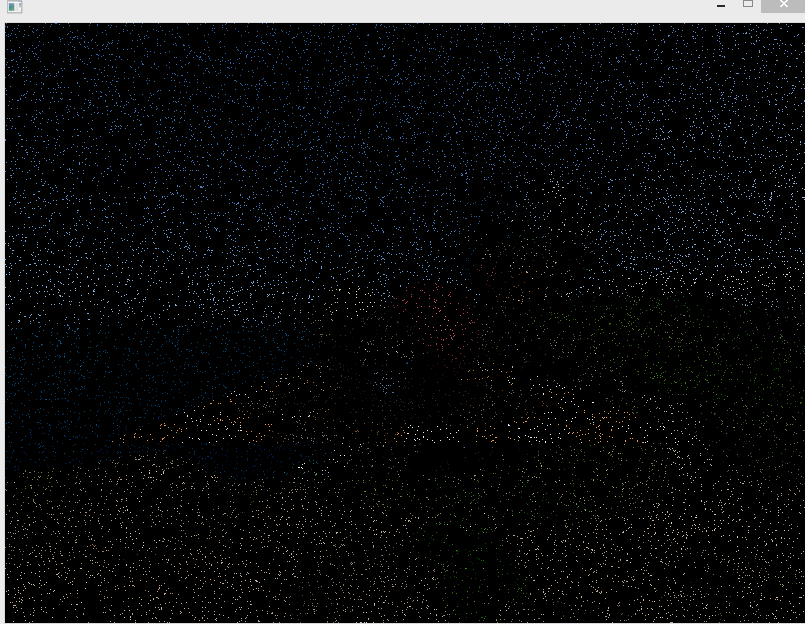
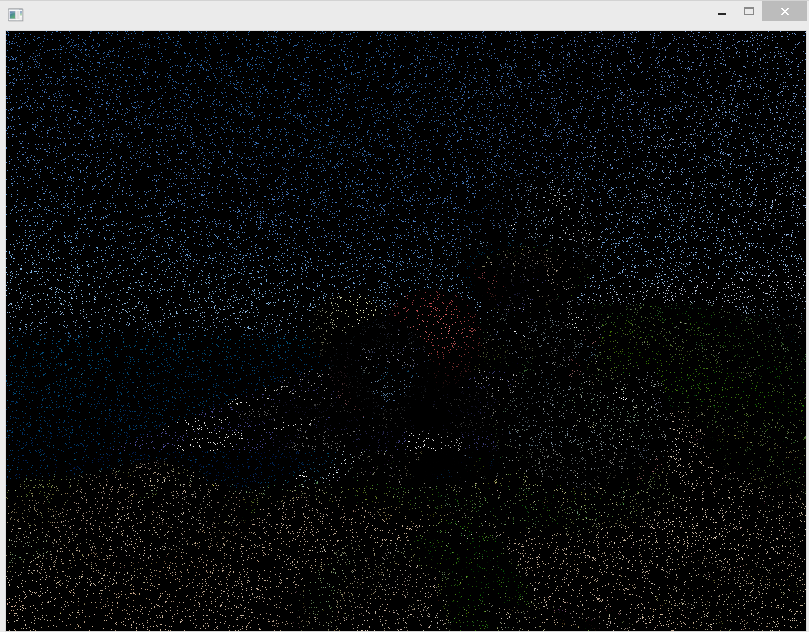
duck refactored, significaly speedup

diff --git a/src/model.cpp b/src/model.cpp
@@ -1,4 +1,4 @@
-#define _CRT_SECURE_NO_WARNINGS
+#define _CRT_SECURE_NO_WARNINGS
 
 #include <iostream>
 #include <cassert>
@@ -52,14 +52,7 @@ Model::Model(const char *filename) : verts(), faces()
 				std::cerr << "Cannot read file: " << filename << std::endl;
 				throw std::string("Cannot read file: ") + filename;
 			}
-            /**//*
-			while (iss >> idx) 
-			{
-                idx--; // in wavefront obj all indices start at 1, not zero
-                f[cnt++] = idx;
-            }
-            if (3==cnt) faces.push_back(f);/**/
-			/**/
+
 			f[0]--;// in wavefront obj all indices start at 1, not zero
 			f[1]--;
 			f[2]--;
@@ -68,31 +61,91 @@ Model::Model(const char *filename) : verts(), faces()
     }
     std::cerr << "# v# " << verts.size() << " f# "  << faces.size() << std::endl;
 
-    Vec3f min, max;
-    get_bbox(min, max);
+	calc_bbox();
 }
 
-// Moller and Trumbore
-bool Model::ray_triangle_intersect(const int &fi, const Vec3f &orig, const Vec3f &dir, float &tnear) const
+void Model::calc_bbox()
 {
-    Vec3f edge1 = point(vert(fi,1)) - point(vert(fi,0));
-    Vec3f edge2 = point(vert(fi,2)) - point(vert(fi,0));
-    Vec3f pvec = cross(dir, edge2);
-    float det = edge1*pvec;
-    if (det<1e-5) return false;
-
-    Vec3f tvec = orig - point(vert(fi,0));
-    float u = tvec*pvec;
-    if (u < 0 || u > det) return false;
-
-    Vec3f qvec = cross(tvec, edge1);
-    float v = dir*qvec;
-    if (v < 0 || u + v > det) return false;
-
-    tnear = edge2*qvec * (1./det);
-    return tnear>1e-5;
+	bb_min = bb_max = verts[0];
+	for (size_t i = 1; i < verts.size(); ++i)
+	{
+		for (int j = 0; j < 3; j++)
+		{
+			bb_min[j] = std::min(bb_min[j], verts[i][j]);
+			bb_max[j] = std::max(bb_max[j], verts[i][j]);
+		}
+	}
+	std::cerr << "bbox: [" << bb_min << " : " << bb_max << "]" << std::endl;
 }
 
+bool Model::ray_bbox_intersect(const Vec3f& orig, const Vec3f& dir) const
+{
+	Vec3f p1, p2, p3, p4;//front
+	Vec3f p5, p6, p7, p8;//rear
+	Vec3f p9, p10, p11, p12;//left
+	Vec3f p13, p14, p15, p16;//right
+	float dist;
+	int ret = 0;
+	
+	p1 = Vec3f(bb_min.x, bb_min.y, bb_min.z);
+	p2 = Vec3f(bb_min.x, bb_max.y, bb_min.z);
+	p3 = Vec3f(bb_max.x, bb_max.y, bb_min.z);
+	p4 = Vec3f(bb_max.x, bb_min.y, bb_min.z);
+	ret += RayIntersectsTriangle(orig, dir, dist, p1, p2, p3);
+	ret += RayIntersectsTriangle(orig, dir, dist, p1, p4, p3);
+	
+	p5 = Vec3f(bb_min.x, bb_min.y, bb_max.z);
+	p6 = Vec3f(bb_min.x, bb_max.y, bb_max.z);
+	p7 = Vec3f(bb_max.x, bb_max.y, bb_max.z);
+	p8 = Vec3f(bb_max.x, bb_min.y, bb_max.z);
+	ret += RayIntersectsTriangle(orig, dir, dist, p5, p7, p6);
+	ret += RayIntersectsTriangle(orig, dir, dist, p5, p8, p7);
+	
+	p9 = Vec3f(bb_min.x, bb_min.y, bb_min.z);
+	p10 = Vec3f(bb_min.x, bb_max.y, bb_min.z);
+	p11 = Vec3f(bb_min.x, bb_max.y, bb_max.z);
+	p12 = Vec3f(bb_min.x, bb_min.y, bb_max.z);
+	ret += RayIntersectsTriangle(orig, dir, dist, p9, p10, p11);
+	ret += RayIntersectsTriangle(orig, dir, dist, p9, p11, p12);
+
+	p13 = Vec3f(bb_max.x, bb_min.y, bb_min.z);
+	p14 = Vec3f(bb_max.x, bb_max.y, bb_min.z);
+	p15 = Vec3f(bb_max.x, bb_max.y, bb_max.z);
+	p16 = Vec3f(bb_max.x, bb_min.y, bb_max.z);
+	ret += RayIntersectsTriangle(orig, dir, dist, p13, p14, p15);
+	ret += RayIntersectsTriangle(orig, dir, dist, p13, p15, p16);
+
+	return ret;
+}
+
+
+
+
+bool Model::ray_triangle_intersect(const int fi, const Vec3f& orig, const Vec3f& dir, float& tnear) const
+{
+
+	return RayIntersectsTriangle(orig, dir, tnear, verts[faces[fi][0]], verts[faces[fi][1]], verts[faces[fi][2]] );
+}
+
+bool Model::ray_intersect(const Vec3f& orig, const Vec3f& dir, float &dist, Vec3f& N, Material& material) const
+{
+	bool intersect = false;
+	for (int i = 0; i < faces.size(); i++)
+	{
+		Vec3f v0 = verts[faces[i][0]];
+		Vec3f v1 = verts[faces[i][1]];
+		Vec3f v2 = verts[faces[i][2]];
+		float cur_dist;
+		if (RayIntersectsTriangle(orig, dir, cur_dist, v0, v1, v2) && cur_dist < dist)
+		{
+			dist = cur_dist;
+			intersect = true;
+			N = cross(v1 - v0, v2 - v0).normalize();
+			material = Material(Vec4f(0.3, 1.5, 0.2, 0.5), Vec3f(.20, .21, .2), 125., 1.5);
+		}
+	}
+	return intersect;
+}
 
 int Model::nverts() const
 {
@@ -106,16 +159,8 @@ int Model::nfaces() const
 
 void Model::get_bbox(Vec3f &min, Vec3f &max)
 {
-    min = max = verts[0];
-    for (int i=1; i<(int)verts.size(); ++i) 
-	{
-        for (int j=0; j<3; j++) 
-		{
-            min[j] = std::min(min[j], verts[i][j]);
-            max[j] = std::max(max[j], verts[i][j]);
-        }
-    }
-    std::cerr << "bbox: [" << min << " : " << max << "]" << std::endl;
+	min = bb_min;
+	max = bb_max;
 }
 
 const Vec3f &Model::point(int i) const 
@@ -154,3 +199,36 @@ std::ostream& operator<<(std::ostream& out, Model &m)
     return out;
 }
 
+
+/*
+	Möller–Trumbore intersection algorithm
+*/
+bool RayIntersectsTriangle(const Vec3f& orig, const Vec3f& dir, float& dist, const Vec3f& v0, const Vec3f& v1, const Vec3f& v2)
+{
+	Vec3f pvec, tvec, q;
+	Vec3f edge1 = v1 - v0;
+	Vec3f edge2 = v2 - v0;
+	const float eps = 1e-7;
+	float det, u, v;
+
+	pvec = cross(dir, edge2);//vector normal to plane 
+	det = edge1 * pvec;
+	if (det > -eps && det < eps)// This ray is parallel to this triangle.
+		return false;
+	det = 1. / det;
+
+	tvec = orig - v0;
+	u = det * (tvec * pvec);
+	if (u < 0.0 || u > 1.0)
+		return false;
+
+	q = cross(tvec, edge1);
+	v = det * (dir * q);
+	if (v < 0.0 || u + v > 1.0)
+		return false;
+
+	// At this stage we can compute t to find out where the intersection point is on the line.
+	dist = det * (edge2 * q);
+	//IntersectionPoint = rayOrigin + dir * dist;
+	return dist > eps;// This means that there is a line intersection but not a ray intersection.
+}

diff --git a/src/render.cpp b/src/render.cpp
@@ -38,7 +38,7 @@ Vec3f refract(const Vec3f& I, const Vec3f& N, const float eta_t, const float eta
 bool scene_intersect(const Vec3f& orig, const Vec3f& dir, const Scene_t &scene, Vec3f& hit, Vec3f& N, Material& material)
 {
 	float spheres_dist = std::numeric_limits<float>::max();
-	float duck_dist = std::numeric_limits<float>::max();
+	float model_dist = std::numeric_limits<float>::max();
 	for (int j = 0; j < scene.objects.size(); j++)
 	{
 		const SceneObject_t* sc_obj = scene.objects[j];
@@ -55,22 +55,9 @@ bool scene_intersect(const Vec3f& orig, const Vec3f& dir, const Scene_t &scene, 
 				material = sphere->material;
 			}
 		}
-		else if (model)
+		else if (model && model->ray_bbox_intersect(orig, dir) )
 		{
-			for (int t = 0; t < model->nfaces(); t++)
-			{
-				float dist;
-				if (model->ray_triangle_intersect(t, orig, dir, dist) && dist < duck_dist && dist < spheres_dist)
-				{
-					duck_dist = dist;
-					hit = orig + dir * dist;
-					Vec3f v0 = model->point(model->vert(t, 0));
-					Vec3f v1 = model->point(model->vert(t, 1));
-					Vec3f v2 = model->point(model->vert(t, 2));
-					N = cross(v1 - v0, v2 - v0).normalize();
-					material = Material(Vec4f(0.3, 1.5, 0.2, 0.5), Vec3f(.24, .21, .09), 125., 1.5);
-				}
-			}
+			model->ray_intersect(orig, dir, model_dist, N, material);
 		}
 	}
 
@@ -79,15 +66,15 @@ bool scene_intersect(const Vec3f& orig, const Vec3f& dir, const Scene_t &scene, 
 	{
 		float d = -(orig.y + 4) / dir.y; // the checkerboard plane has equation y = -4
 		Vec3f pt = orig + dir * d;
-		if (d > 0 && fabs(pt.x) < 10 && pt.z<-10 && pt.z>-30 && d < spheres_dist && d < duck_dist)
+		if (d > 0 && fabs(pt.x) < 10 && pt.z<-10 && pt.z>-30 && d < spheres_dist && d < model_dist)
 		{
 			checkerboard_dist = d;
 			hit = pt;
 			N = Vec3f(0, 1, 0);
-			material.diffuse = (int(.5 * hit.x + 1000) + int(.5 * hit.z)) & 1 ? Vec3f(.3, .3, .3) : Vec3f(.3, .2, .1);
+			material.diffuse = (int(.5 * hit.x + 1000) + int(.5 * hit.z)) & 1 ? Vec3f(.3, .3, .3) : Vec3f(.1, .1, .2);
 		}
 	}
-	return std::min(duck_dist, std::min(spheres_dist, checkerboard_dist)) < 1000;
+	return std::min(model_dist, std::min(spheres_dist, checkerboard_dist)) < 1000;
 }
 
 
@@ -104,8 +91,7 @@ Vec3f cast_ray(const Vec3f& orig, const Vec3f& dir, const Scene_t &scene, size_t
 		size_t v = scene.penvmap->height * (0.5 - asin(dir.y) / M_PI);
 		size_t i = u + v * scene.penvmap->width;//return (*envmap)[u + v * envmap_width];
 		unsigned char* pixel = scene.penvmap->pixmap;
-		return Vec3f(pixel[3 * i + 0], pixel[3 * i + 1], pixel[3 * i + 2]) * (1.f / 255.f);
-		//return Vec3f(0.2, 0.7, 0.8); // background color
+		return Vec3f(pixel[3 * i + 0], pixel[3 * i + 1], pixel[3 * i + 2]) * (1.f / 255.f); //background color
 	}
 
 	//Reflections
@@ -134,9 +120,9 @@ Vec3f cast_ray(const Vec3f& orig, const Vec3f& dir, const Scene_t &scene, size_t
 		specular_light_intensity += powf(std::max(0.f, -reflect(-light_dir, N) * dir), material.specular_exponent) * lights[i]->intensity;
 	}
 
-	return material.diffuse * diffuse_light_intensity * material.albedo[0] + 
+	return	material.diffuse * diffuse_light_intensity * material.albedo[0] + 
 			Vec3f(1., 1., 1.) * specular_light_intensity * material.albedo[1] +
-		reflect_color * material.albedo[2] + refract_color * material.albedo[3];
+			reflect_color * material.albedo[2] + refract_color * material.albedo[3];
 }
 
 

diff --git a/src/util.hpp b/src/util.hpp
@@ -30,6 +30,7 @@ inline unsigned toColor(const Vec3f& color)
 	return toColor(color.r, color.g, color.b);
 }
 
+bool RayIntersectsTriangle(const Vec3f& orig, const Vec3f& dir, float& dist, const Vec3f& vertex0, const Vec3f& vertex1, const Vec3f& vertex2);//in model.cpp
 
 class SceneObject_t
 {
@@ -79,13 +80,18 @@ class Model : public SceneObject_t
 private:
 	std::vector<Vec3f> verts;
 	std::vector<Vec3i> faces;
+	Vec3f bb_min, bb_max;
+
+	void calc_bbox();
 public:
 	Model(const char* filename);
 
 	int nverts() const;                          // number of vertices
 	int nfaces() const;                          // number of triangles
 
-	bool ray_triangle_intersect(const int& fi, const Vec3f& orig, const Vec3f& dir, float& tnear) const;
+	bool ray_intersect(const Vec3f& orig, const Vec3f& dir, float& dist, Vec3f& N, Material& material) const;
+	bool ray_triangle_intersect(const int fi, const Vec3f& orig, const Vec3f& dir, float &tnear) const;
+	bool ray_bbox_intersect(const Vec3f& orig, const Vec3f& dir) const;
 
 	const Vec3f& point(int i) const;                   // coordinates of the vertex i
 	Vec3f& point(int i);                   // coordinates of the vertex i
